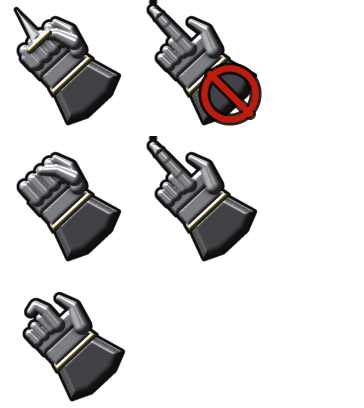
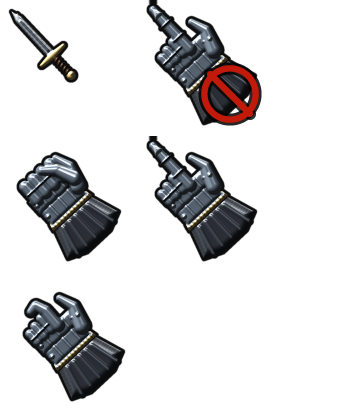
Richer gothic gauntlet cursors and a small sword attack cursor

diff --git a/tools/ui-assets/gen_hud.py b/tools/ui-assets/gen_hud.py
@@ -1133,22 +1133,36 @@ def cp(a, b, tip=TIP, ang=AXIS):
 
 
 def gauntlet(pose):
-    """pose: point, press (tip bent short), fist (grab), grip (holding a blade)."""
-    r = Relief(CUR, CUR, "#6E7074", 0.0, 0.9)
-    steel = "#7A7C80"
-    dark = "#3C3D40"
+    """pose: point, press (tip bent short), fist (grab). Blued steel, fluted lames, riveted, gold engraved cuff."""
+    r = Relief(CUR, CUR, "#3A4048", 0.0, 0.9)
+    steel = "#566270"
+    dark = "#262A31"
+    flute = "#6F7C8B"
     gold = "hud.gold.mid"
-    # flared cuff
+    # flared cuff with fluting, then the engraved gold band and rivets
     r.plate([cp(21.0, -5.8), cp(21.0, 5.8), cp(29.5, 8.6), cp(31.5, 4), cp(31.5, -4), cp(29.5, -8.6)], 0.2, 2.2, "round", alb=dark)
+    for b in (-4.6, -2.3, 0.0, 2.3, 4.6):
+        r.sweep([cp(23.2, b * 0.9), cp(30.4, b * 1.3)], 0.5, 2.3, alb="#343A43", gloss=0.8, step_px=2.0)
     r.plate([cp(20.2, -6.2), cp(20.2, 6.2), cp(22.0, 6.6), cp(22.0, -6.6)], 3.0, 0.6, "round", alb=gold, gloss=0.6)
-    # back of the hand: lames
+    for k in range(-5, 6):
+        b = k * 1.1
+        r.sweep([cp(20.5, b), cp(21.7, b)], 0.16, 4.3, alb="hud.gold.dim", gloss=0.2, step_px=1.0)
+    for b in (-6.0, 6.0):
+        r.sweep([cp(21.1, b * 0.99)], 0.5, 4.2, alb="hud.gold.bright", gloss=0.9, step_px=1.0)
+    # back of the hand: fluted lames with rivets
     for a0, a1, wd, z in ((16.0, 21.0, 6.0, 2.0), (12.6, 16.8, 6.2, 2.6)):
         r.plate([cp(a0, -wd * 0.95), cp(a0, wd), cp(a1, wd), cp(a1, -wd)], z, 1.3, "round", alb=steel)
+        for b in (-wd * 0.5, 0.0, wd * 0.5):
+            r.sweep([cp(a0 + 0.9, b), cp(a1 - 0.9, b)], 0.32, z + 1.6, alb=flute, gloss=1.0, step_px=2.0)
+        for b in (-wd * 0.85, wd * 0.85):
+            r.sweep([cp((a0 + a1) / 2, b)], 0.42, z + 2.3, alb="#9AA3AE", gloss=1.0, step_px=1.0)
     # folded fingers on the b>0 side, thumb on b<0
-    if pose in ("point", "press", "grip"):
+    if pose in ("point", "press"):
         for i, b in enumerate((0.6, 3.0, 5.2)):
             r.sweep([cp(13.2, b), cp(9.4 + i * 0.5, b + 0.1), cp(11.4 + i * 0.3, b + 0.2)], [1.25, 1.15, 1.0], 4.0, alb=steel, step_px=2.0)
+            r.sweep([cp(11.9 + i * 0.1, b - 0.9), cp(11.9 + i * 0.1, b + 0.9)], 0.22, 5.4, alb="#0E1013", gloss=0.2, step_px=1.0)
     r.sweep([cp(18, -5.6), cp(13.0, -7.4), cp(9.0, -6.2)], [1.9, 1.4, 0.9], 4.2, alb=steel, step_px=2.0)
+    r.sweep([cp(15.2, -6.7)], 0.42, 6.4, alb="#9AA3AE", gloss=1.0, step_px=1.0)
     if pose == "point":
         segs = [(0.0, 5.0, 1.0, 1.35), (5.0, 9.6, 1.35, 1.5), (9.6, 13.6, 1.5, 1.6)]
     elif pose == "press":
@@ -1160,16 +1174,26 @@ def gauntlet(pose):
         o = -1.3
         r.sweep([cp(a0 + 0.2, o), cp(a1, o)], [r0, r1], 4.8 - i * 0.2, alb=steel, step_px=2.0)
     if pose == "point":
-        r.plate([cp(segs[0][0] - 0.0, -1.3), cp(segs[0][0] + 2.4, 0.0), cp(segs[0][0] + 2.4, -2.6)], 6.2, 0.7, "round", alb="#9A9CA0")
-    if pose in ("fist", "grip"):
+        for a in (5.0, 9.6):
+            r.sweep([cp(a, -1.3 - 1.6), cp(a, -1.3 + 1.6)], 0.2, 6.3, alb="#0E1013", gloss=0.2, step_px=1.0)
+        r.plate([cp(segs[0][0] - 0.0, -1.3), cp(segs[0][0] + 2.4, 0.0), cp(segs[0][0] + 2.4, -2.6)], 6.2, 0.7, "round", alb="#8A94A0")
+    if pose == "fist":
         for i, b in enumerate((-4.2, -1.4, 1.4, 4.2)):
             r.sweep([cp(13.5, b), cp(9.0, b), cp(10.2, b + 0.1)], [1.6, 1.5, 1.3], 4.0, alb=steel, step_px=2.0)
+            r.sweep([cp(11.3, b - 1.1), cp(11.3, b + 1.1)], 0.22, 5.6, alb="#0E1013", gloss=0.2, step_px=1.0)
         r.sweep([cp(16, -6.2), cp(11.5, -4.4), cp(9.0, -1.6)], [1.7, 1.3, 1.0], 6.0, alb=steel, step_px=2.0)
     return r
 
 
 def cursor_render(r):
     img = r.render(amb=0.95, dif=0.85, key=1.1, fill=0.45, ao=0.6, ao_r=0.9)
+    # worn bright edges: opaque pixels whose up-left neighbour is empty catch the light
+    a = img[..., 3] > 0.5
+    up = np.zeros_like(a)
+    up[1:, 1:] = a[:-1, :-1]
+    edge = a & ~up
+    img = img.copy()
+    img[..., :3] = np.where(edge[..., None], np.clip(img[..., :3] * 0.85 + 0.30, 0, 1), img[..., :3])
     return U.halo(img, 0.55, opacity=0.95)
 
 
@@ -1187,16 +1211,22 @@ def cursor_grab():
 
 
 def cursor_attack():
-    r = gauntlet("grip")
-    # short blade running to the hotspot
-    tip = TIP
-    a = cp(9.5, -1.6)
-    b = cp(9.5, 1.6)
-    m = U.poly_mask(CUR, CUR, [cp(0, -1.2), a, b])
-    r.mask_plate(m > 0.5, 6.5, 1.0, "chamfer", alb="#C8CAD0", gloss=1.0)
-    r.sweep([cp(9.7, -3.2), cp(9.7, 3.2)], 0.65, 7.8, alb="hud.gold.mid", gloss=0.6)
-    img = cursor_render(r)
-    return img
+    """A small sword on the 47 degree axis, point up-left on the hotspot. No hand."""
+    r = Relief(CUR, CUR, "#3A4048", 0.0, 0.9)
+    L = 14.0
+    blade = [cp(-0.4, 0.0), cp(2.2, -0.95), cp(L, -1.05), cp(L, 1.05), cp(2.2, 0.95)]
+    r.plate(blade, 4.0, 0.9, "round", alb="#B4BCC6", gloss=1.0)
+    r.sweep([cp(3.0, 0.0), cp(L - 1.0, 0.0)], 0.28, 5.3, alb="#566270", gloss=0.6, step_px=2.0)
+    r.sweep([cp(1.0, -0.62), cp(L - 0.4, -0.78)], 0.14, 5.6, alb="#F2F4F6", gloss=1.0, step_px=2.0)
+    # gold crossguard, dark leather grip with wraps, gold pommel
+    r.sweep([cp(L + 0.6, -3.7), cp(L + 0.6, -1.0), cp(L + 0.6, 1.0), cp(L + 0.6, 3.7)], [0.5, 0.85, 0.85, 0.5], 4.8, alb="hud.gold.mid", gloss=0.7, step_px=2.0)
+    r.sweep([cp(L + 1.4, 0.0), cp(L + 6.4, 0.0)], 0.78, 4.6, alb="#3A2616", gloss=0.25, step_px=2.0)
+    for k in range(5):
+        a0 = L + 2.0 + k * 1.0
+        r.sweep([cp(a0, -0.7), cp(a0 + 0.4, 0.7)], 0.2, 5.5, alb="#1C120A", gloss=0.1, step_px=1.0)
+    r.sweep([cp(L + 7.4, 0.0)], 1.15, 4.8, alb="hud.gold.mid", gloss=0.7, step_px=1.0)
+    r.sweep([cp(L + 7.2, -0.3)], 0.35, 6.0, alb="hud.gold.bright", gloss=0.9, step_px=1.0)
+    return cursor_render(r)
 
 
 def cursor_forbid():
@@ -1703,7 +1733,7 @@ def cursor_sprites():
         U.Sprite("cursor.pointer", cursor_pointer(), pivot=piv),
         U.Sprite("cursor.pressed", cursor_pressed(), pivot=tuple(int((v + 1) * 4) for v in cp(6.0, -0.6))),
         U.Sprite("cursor.grab", cursor_grab(), pivot=(44, 44)),
-        U.Sprite("cursor.attack", cursor_attack(), pivot=piv),
+        U.Sprite("cursor.attack", cursor_attack(), pivot=tuple(int(v * 4) for v in cp(0.8, 0.0))),
         U.Sprite("cursor.forbid", cursor_forbid(), pivot=piv),
     ]
 

diff --git a/tools/ui-assets/tests/check_hud.py b/tools/ui-assets/tests/check_hud.py
@@ -379,6 +379,47 @@ def check_cursors(errs, C, cur):
             errs.append(f"{name}: pivot not upper-left")
 
 
+def attack_errors(pointer, attack, pivot):
+    """The sword must be small, unlike the gauntlet, and the hotspot must sit on its tip."""
+    errs = []
+    pa, aa = pointer[..., 3] > 128, attack[..., 3] > 128
+    ratio = aa.sum() / max(pa.sum(), 1)
+    if ratio > 0.60:
+        errs.append(f"cursor.attack covers {ratio:.0%} of the pointer's opaque area, want <= 60%")
+    shape = iou(pointer, attack)
+    if shape >= 0.5:
+        errs.append(f"cursor.attack silhouette IoU with the pointer is {shape:.2f}, want < 0.5")
+    ys, xs = np.nonzero(aa)
+    if not len(xs):
+        errs.append("cursor.attack is empty")
+    else:
+        d = np.sqrt((xs - pivot[0]) ** 2 + (ys - pivot[1]) ** 2).min()
+        if d > 2.0:
+            errs.append(f"cursor.attack: nearest opaque pixel is {d:.1f} px from the pivot, want <= 2")
+    return errs
+
+
+def self_test():
+    """Each attack gate must be able to fail on a synthetic sprite."""
+    errs = []
+    blank = np.zeros((128, 128, 4), np.uint8)
+    pointer = blank.copy()
+    pointer[10:90, 10:60, 3] = 255
+    small = blank.copy()
+    small[10:40, 70:76, 3] = 255
+    if attack_errors(pointer, small, (70, 10)):
+        errs.append("self_test: a small distinct sword with a tip pivot was rejected")
+    big = blank.copy()
+    big[10:80, 70:120, 3] = 255
+    if not any("area" in e for e in attack_errors(pointer, big, (70, 10))):
+        errs.append("self_test: an oversized attack cursor passed the area gate")
+    if not any("IoU" in e for e in attack_errors(pointer, pointer.copy(), (10, 10))):
+        errs.append("self_test: an attack cursor equal to the pointer passed the IoU gate")
+    if not any("pivot" in e for e in attack_errors(pointer, small, (20, 100))):
+        errs.append("self_test: a pivot far from the art passed the pivot gate")
+    return errs
+
+
 def check_layout(errs, doc):
     lay = doc["meta"]["layout"]
     want = {"talon": [128, -3, 71, 52], "dragon": [0, -52, 118, 58], "setting": [92, -5, 62, 56], "gem": [98, -2, 50, 50]}
@@ -388,7 +429,7 @@ def check_layout(errs, doc):
 
 
 def main():
-    errs = []
+    errs = self_test()
     check_generator(errs)
     for path in (HUD, CUR):
         errs += U.validate_atlas(path, {"require4": True})
@@ -405,6 +446,7 @@ def main():
         check_dragon(errs, S, doc)
         check_misc(errs, S, doc)
         check_cursors(errs, C, cur)
+        errs += attack_errors(C("cursor.pointer"), C("cursor.attack"), cur["sprites"]["cursor.attack"]["pivot"])
         check_states(errs, S, C)
     if "--fast" not in sys.argv:
         import gen_hud
